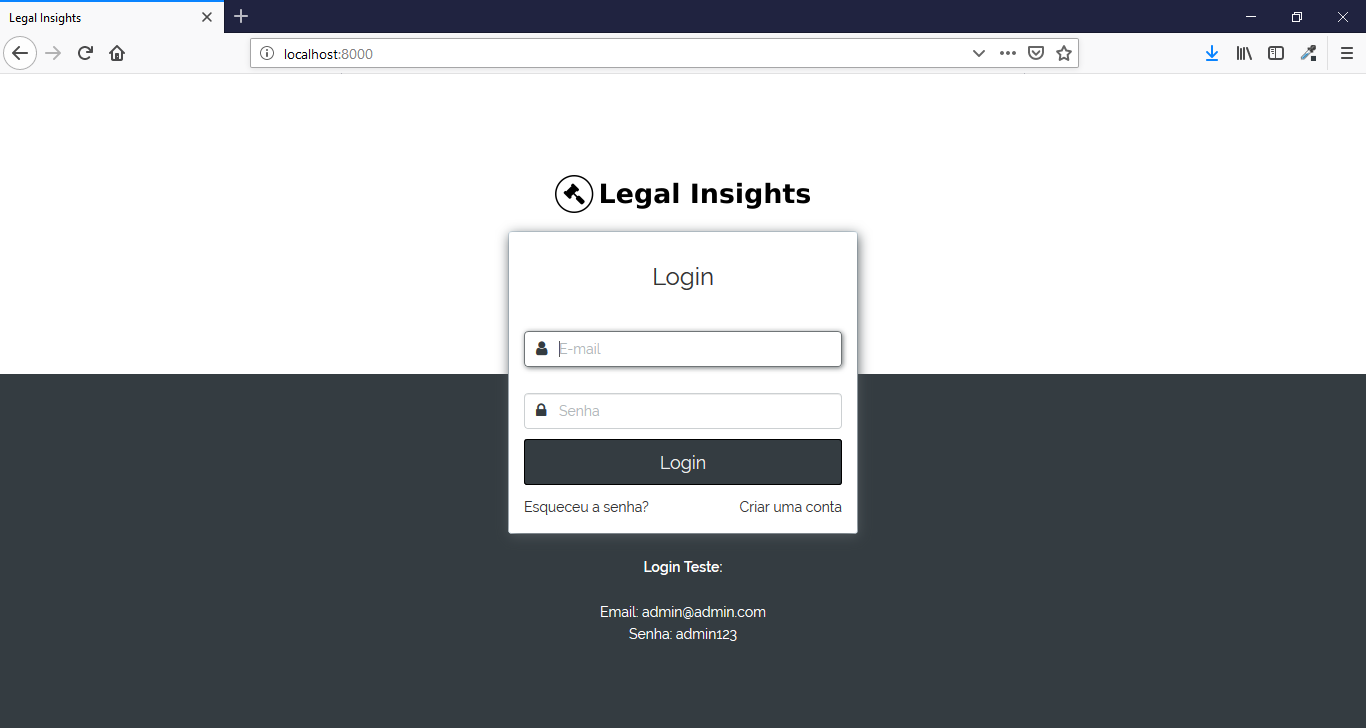
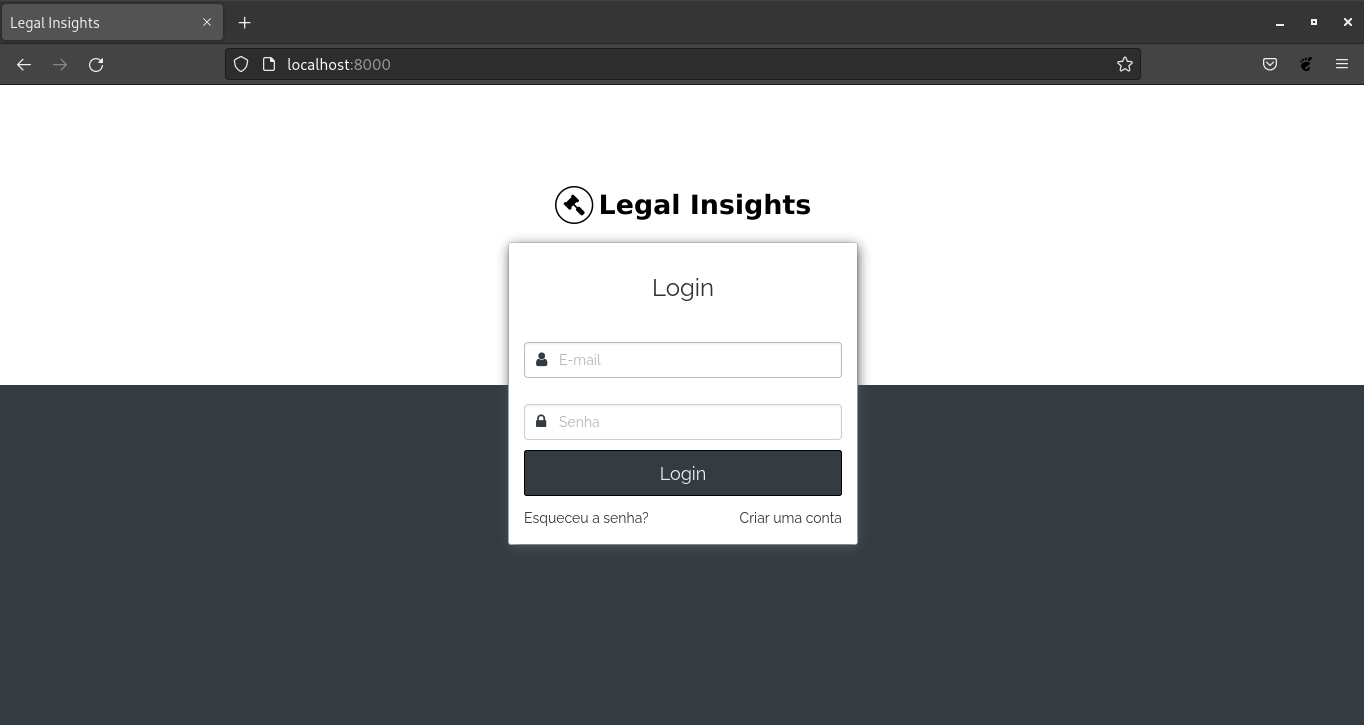
Atualização de arquivos

diff --git a/resources/views/auth/login.blade.php b/resources/views/auth/login.blade.php
@@ -80,11 +80,6 @@
                     </form>
                 </div>
           </div>
-          <div class="text-center test-login">
-            <strong>Login Teste:</strong><br><br>
-            Email: admin@admin.com<br>
-            Senha: admin123<br>
-          </div>
 			</div>
 		</div>
 	</body>

diff --git a/storage/framework/views/ba9e51eab2e116459d8757c1e64674665ef397c8.php b/storage/framework/views/ba9e51eab2e116459d8757c1e64674665ef397c8.php
@@ -81,11 +81,6 @@
                     </form>
                 </div>
           </div>
-          <div class="text-center test-login">
-            <strong>Login Teste:</strong><br><br>
-            Email: admin@admin.com<br>
-            Senha: admin123<br>
-          </div>
 			</div>
 		</div>
 	</body>

diff --git a/README.md b/README.md
@@ -1,4 +1,4 @@
-# Legal Insights
+# Processos Jurídicos
 
 Sistema de cadastro de processos jurídicos, desenvolvido em PHP com Laravel.
 
